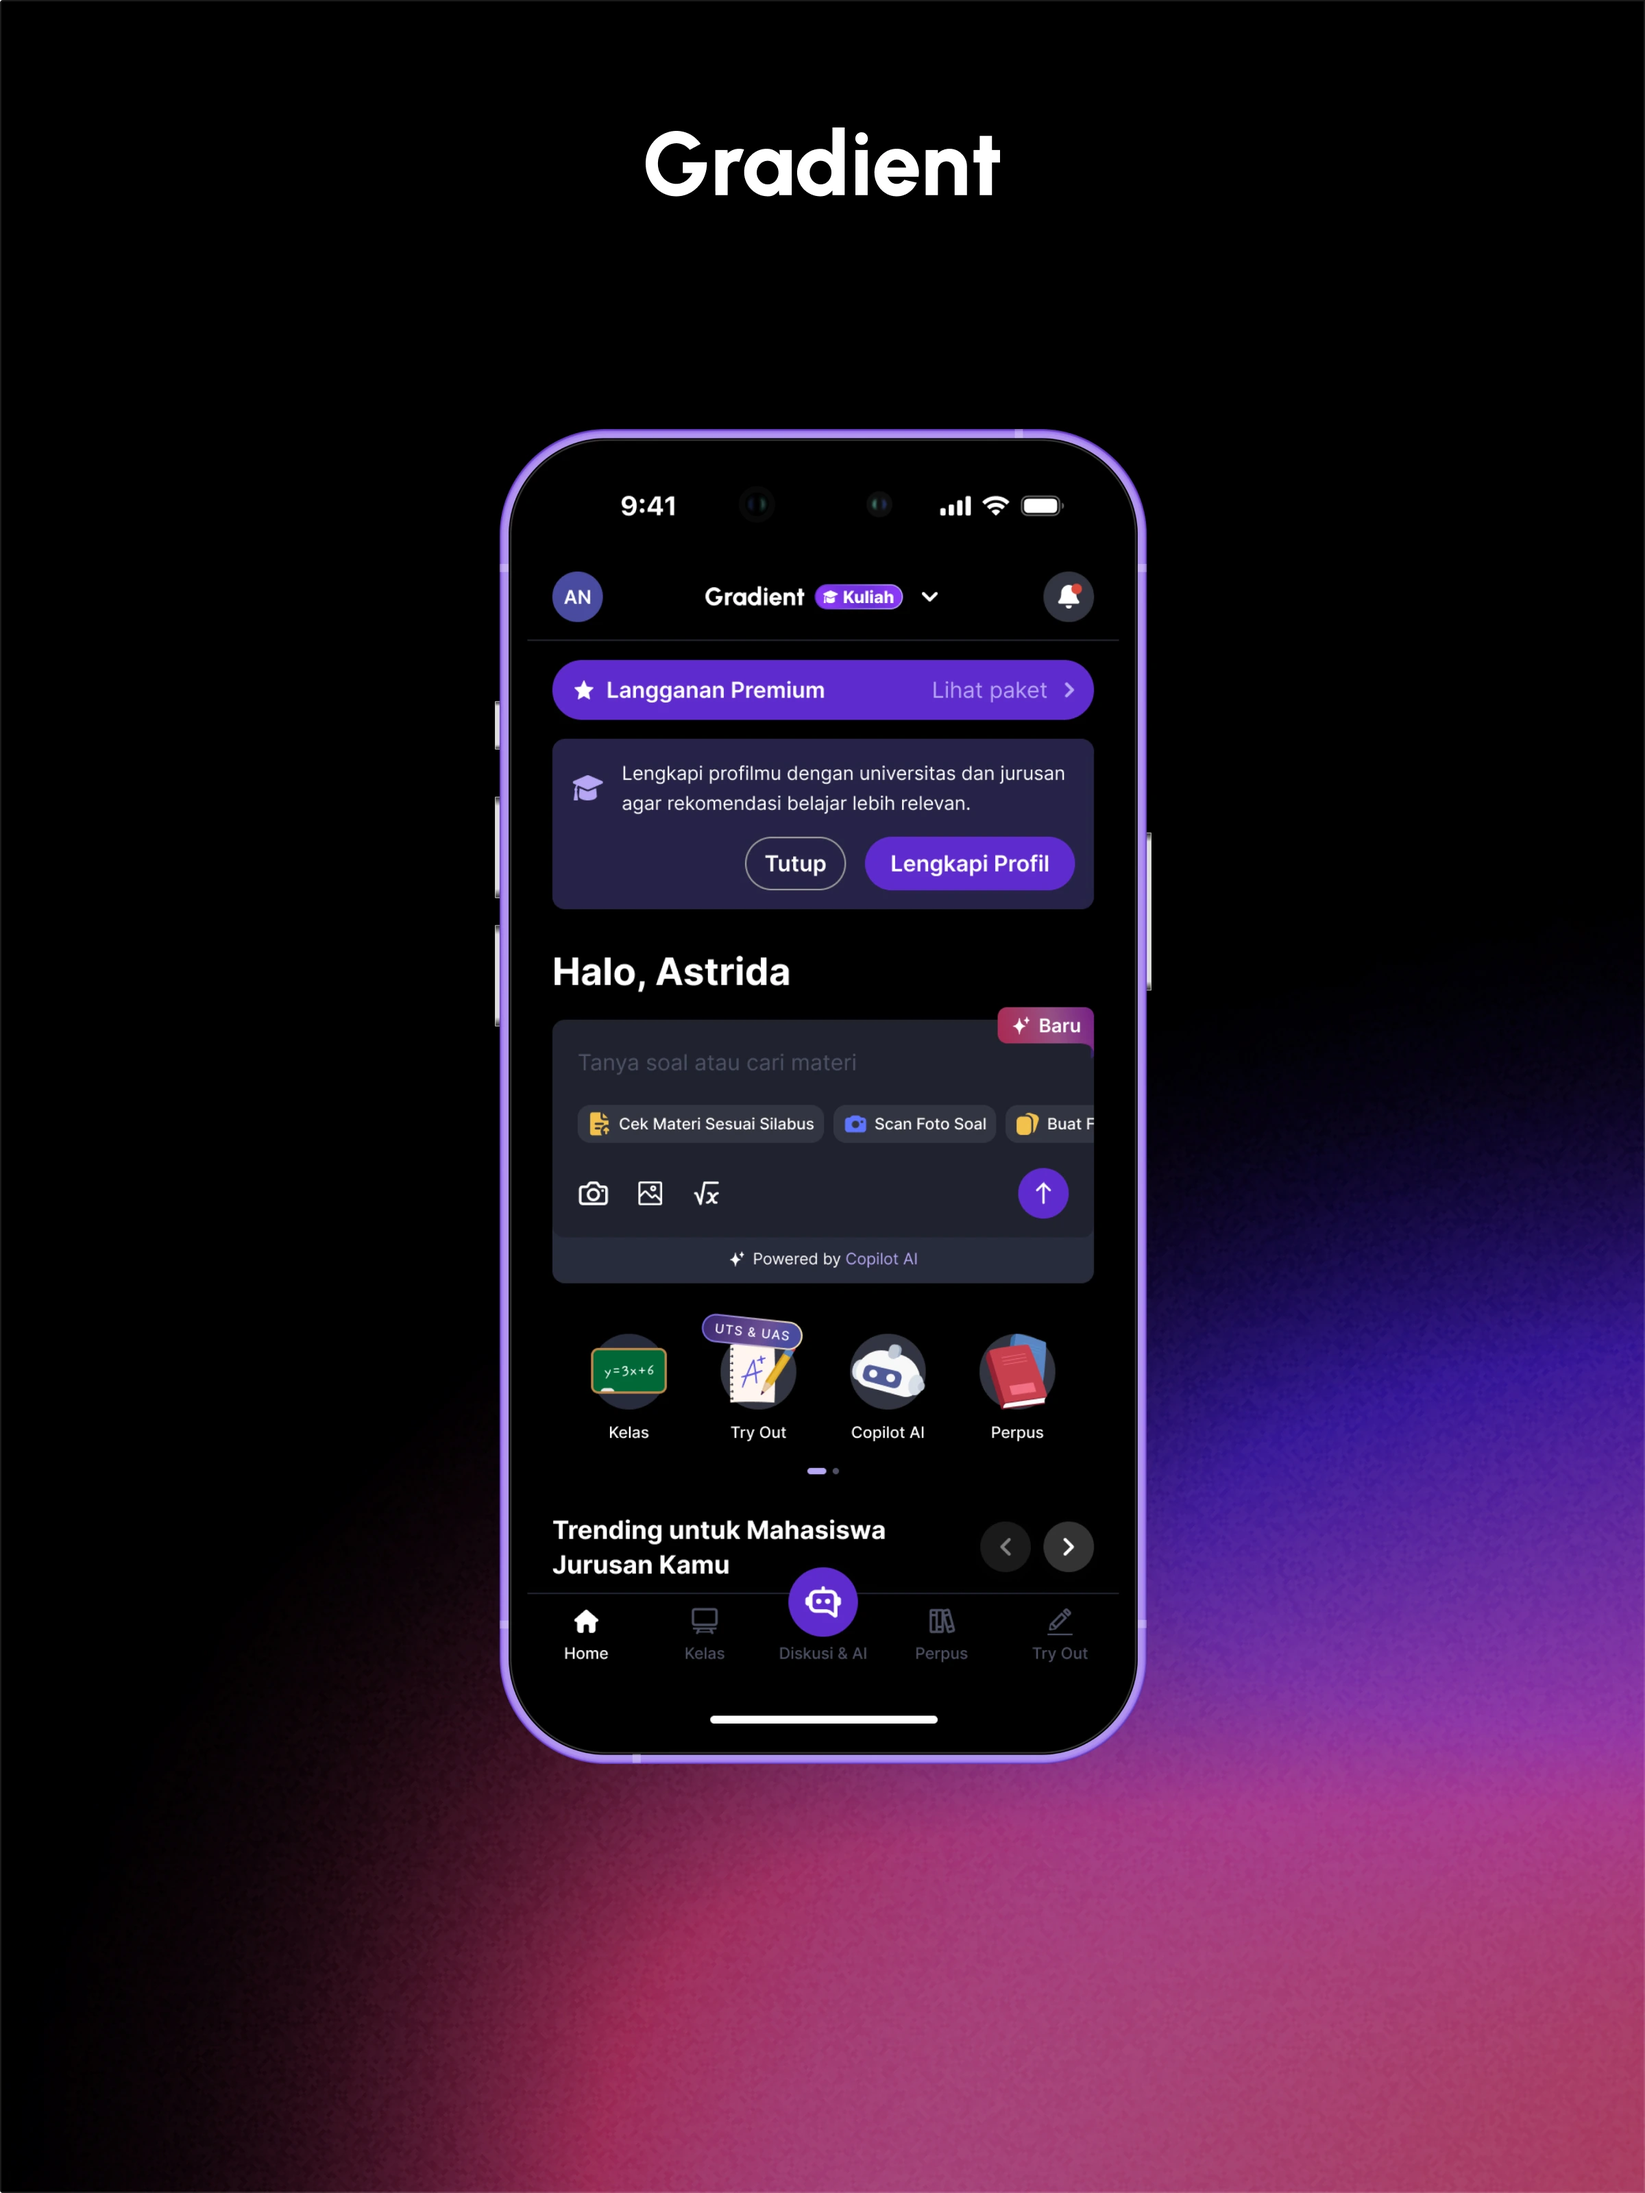
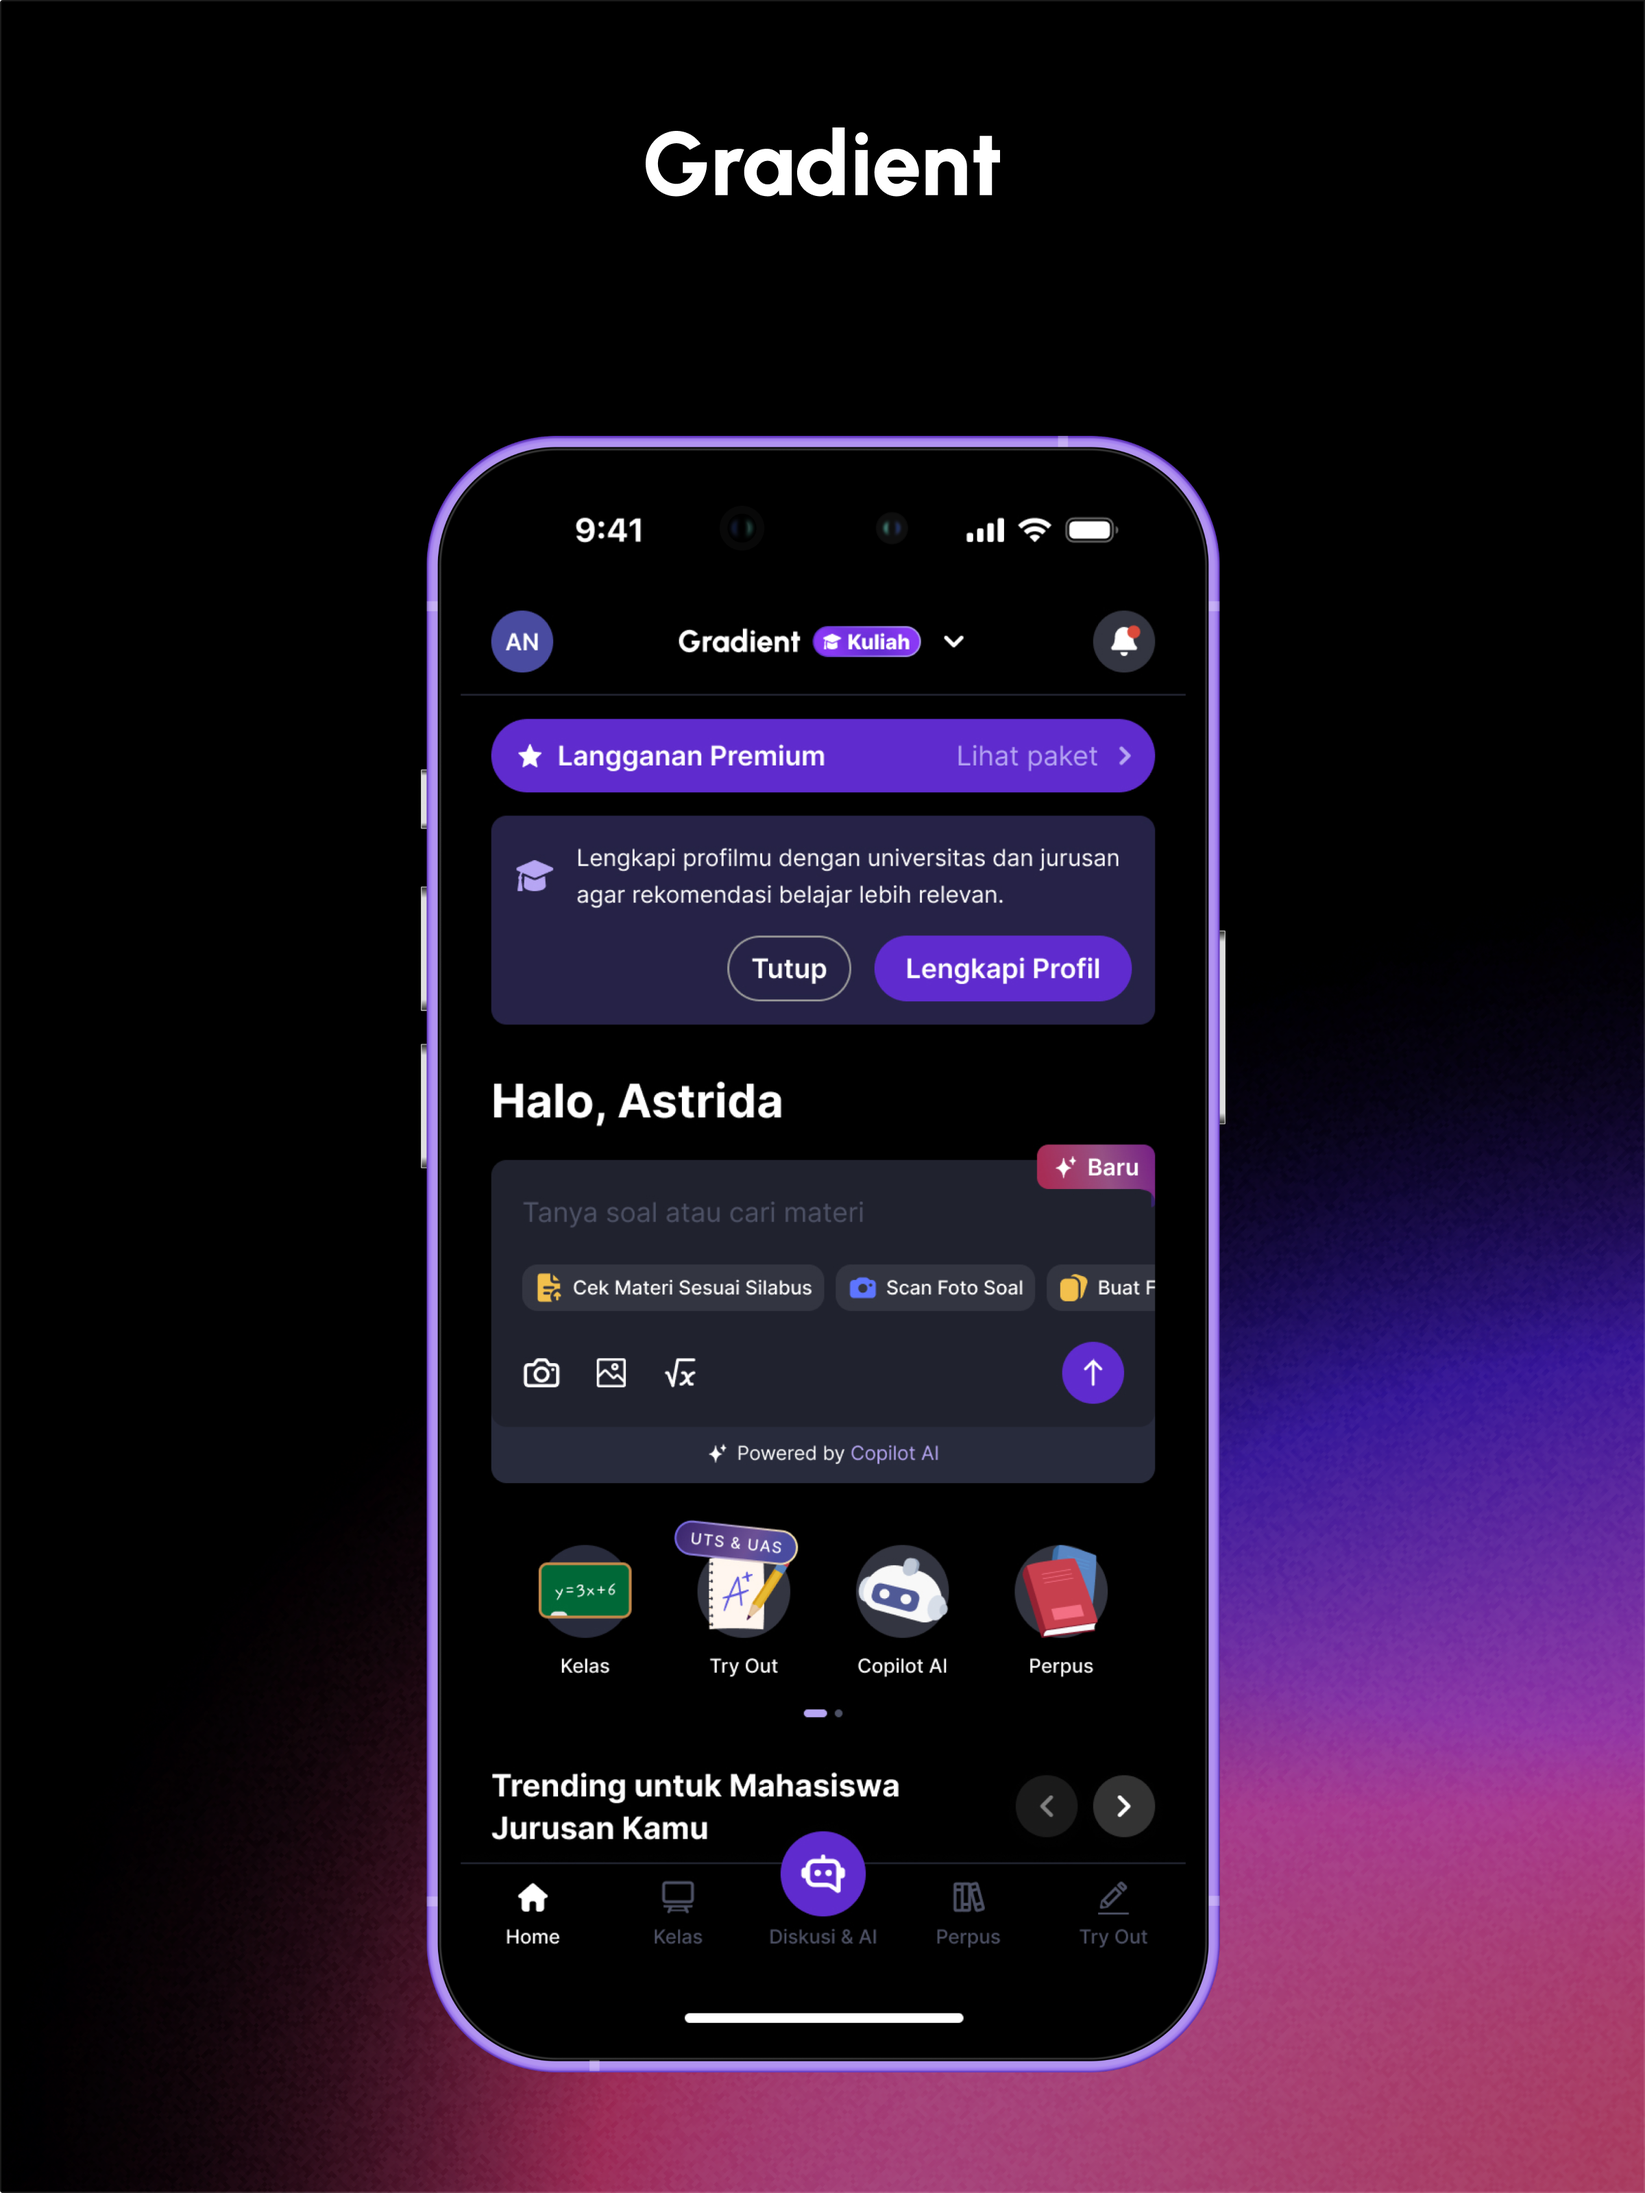
Remove subtitle from project cards, update Gradient cover
- Remove excerpt/description from homescreen project cards
- Keep description only in project detail page
- Update Gradient Academy cover image

Changed region(s): [[0.25, 0.1875, 0.75, 0.9688]]

diff --git a/src/components/sections/PortfolioSection/PortfolioCard.tsx b/src/components/sections/PortfolioSection/PortfolioCard.tsx
@@ -67,7 +67,6 @@ export default function PortfolioCard({ post }: PortfolioCardProps) {
 
     const url = post.__metadata?.urlPath || '#';
     const title = post.title || 'Untitled';
-    const excerpt = post.excerpt || 'Brief description of this project goes here';
     const imageUrl = post.featuredImage?.url;
     const videoUrl = post.featuredVideo?.url;
     const imageAlt = post.featuredImage?.altText || title;
@@ -143,15 +142,12 @@ export default function PortfolioCard({ post }: PortfolioCardProps) {
                     </div>
 
                     {/* Content - with arrow icon on right */}
-                    <div className="p-4 pt-3 flex items-start justify-between gap-3">
-                        {/* Left: Title + Description */}
+                    <div className="p-4 pt-3 flex items-center justify-between gap-3">
+                        {/* Left: Title only */}
                         <div className="flex-1 min-w-0">
-                            <h3 className="font-inter font-semibold text-base text-gray-900 mb-1">
+                            <h3 className="font-inter font-semibold text-base text-gray-900">
                                 {title}
                             </h3>
-                            <p className="text-sm text-gray-500 line-clamp-2">
-                                {excerpt}
-                            </p>
                         </div>
 
                         {/* Right: Arrow icon - only visible on hover */}
